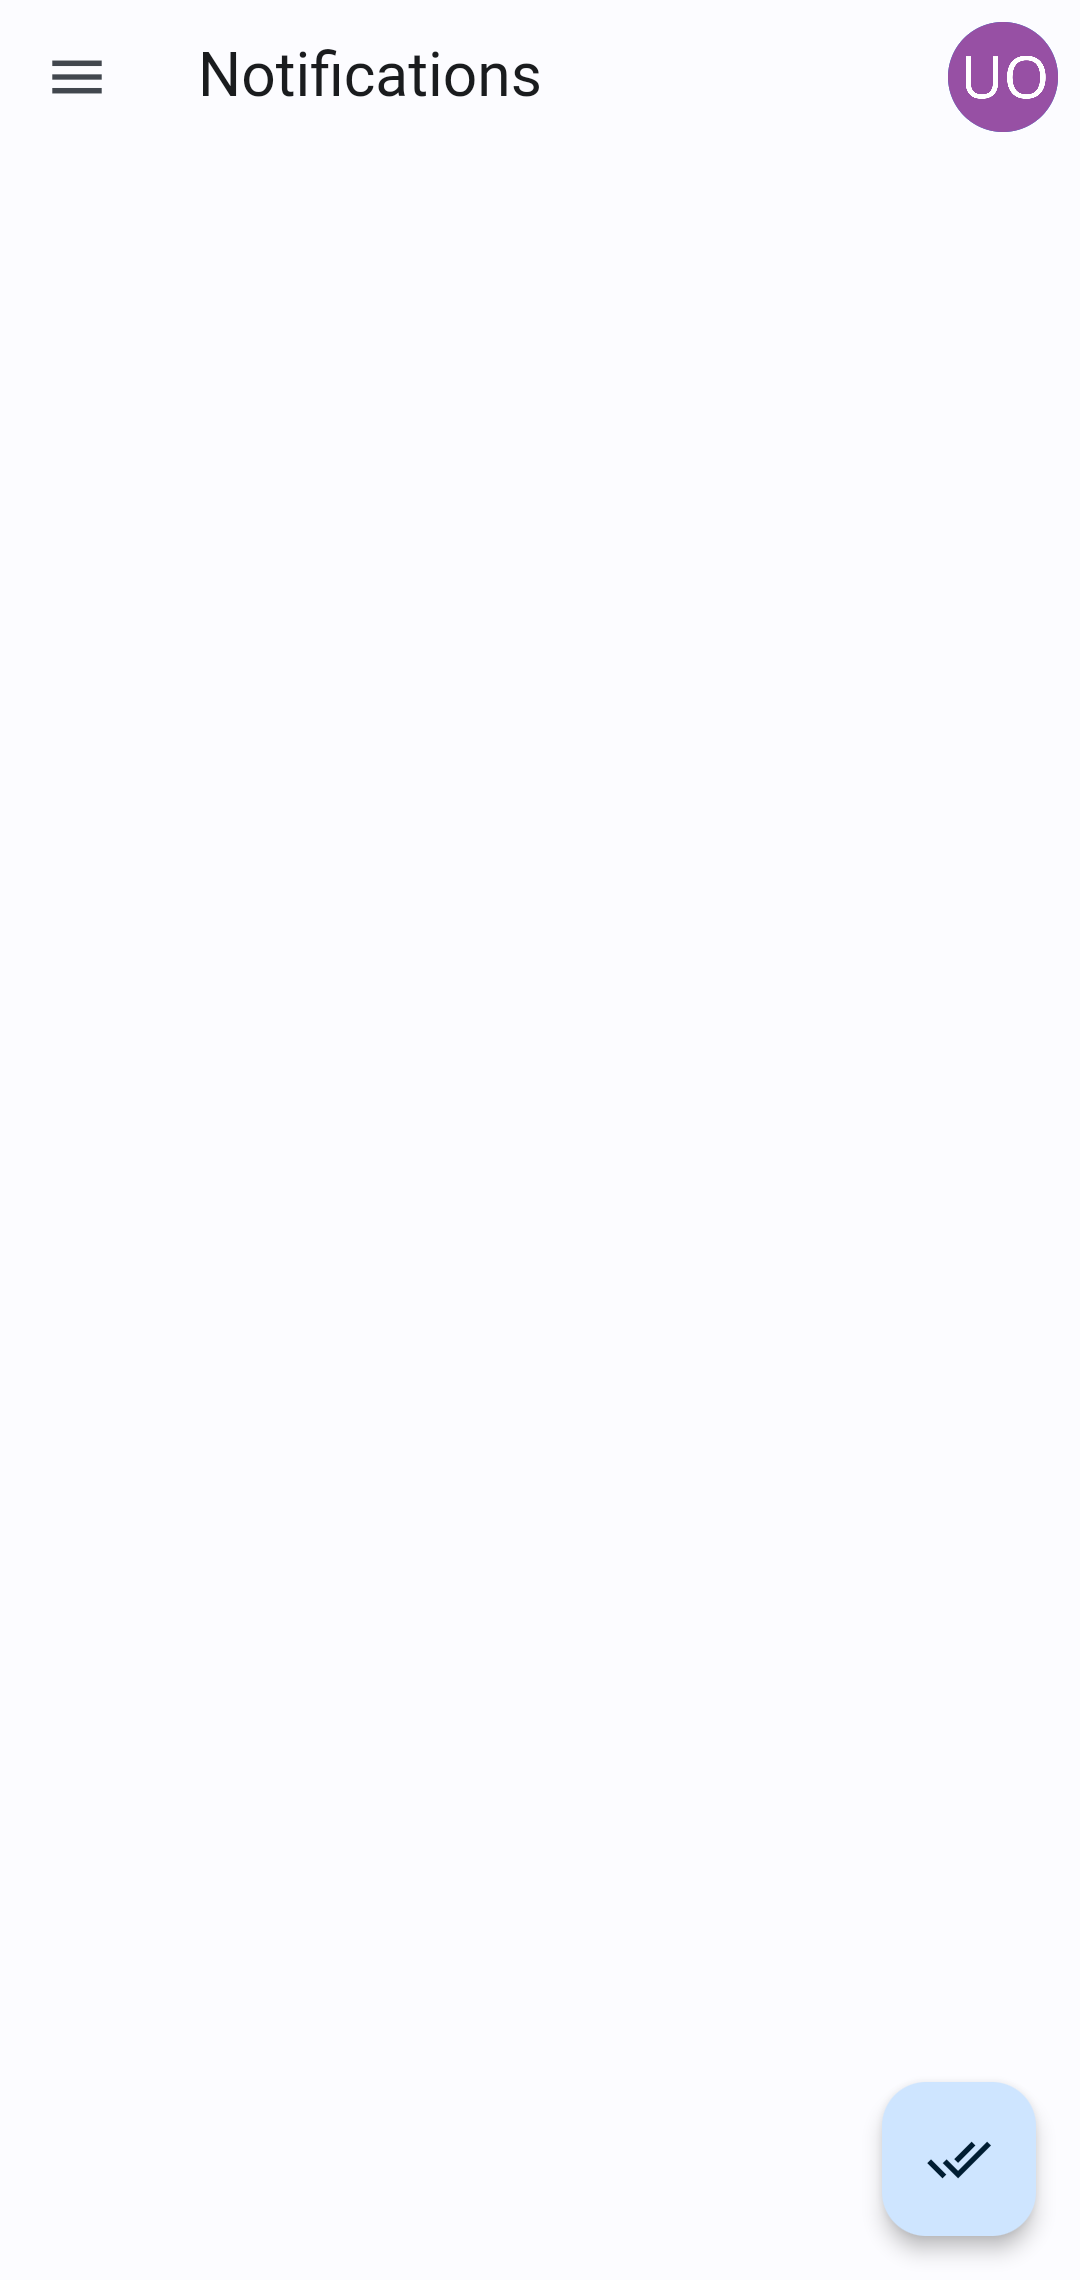
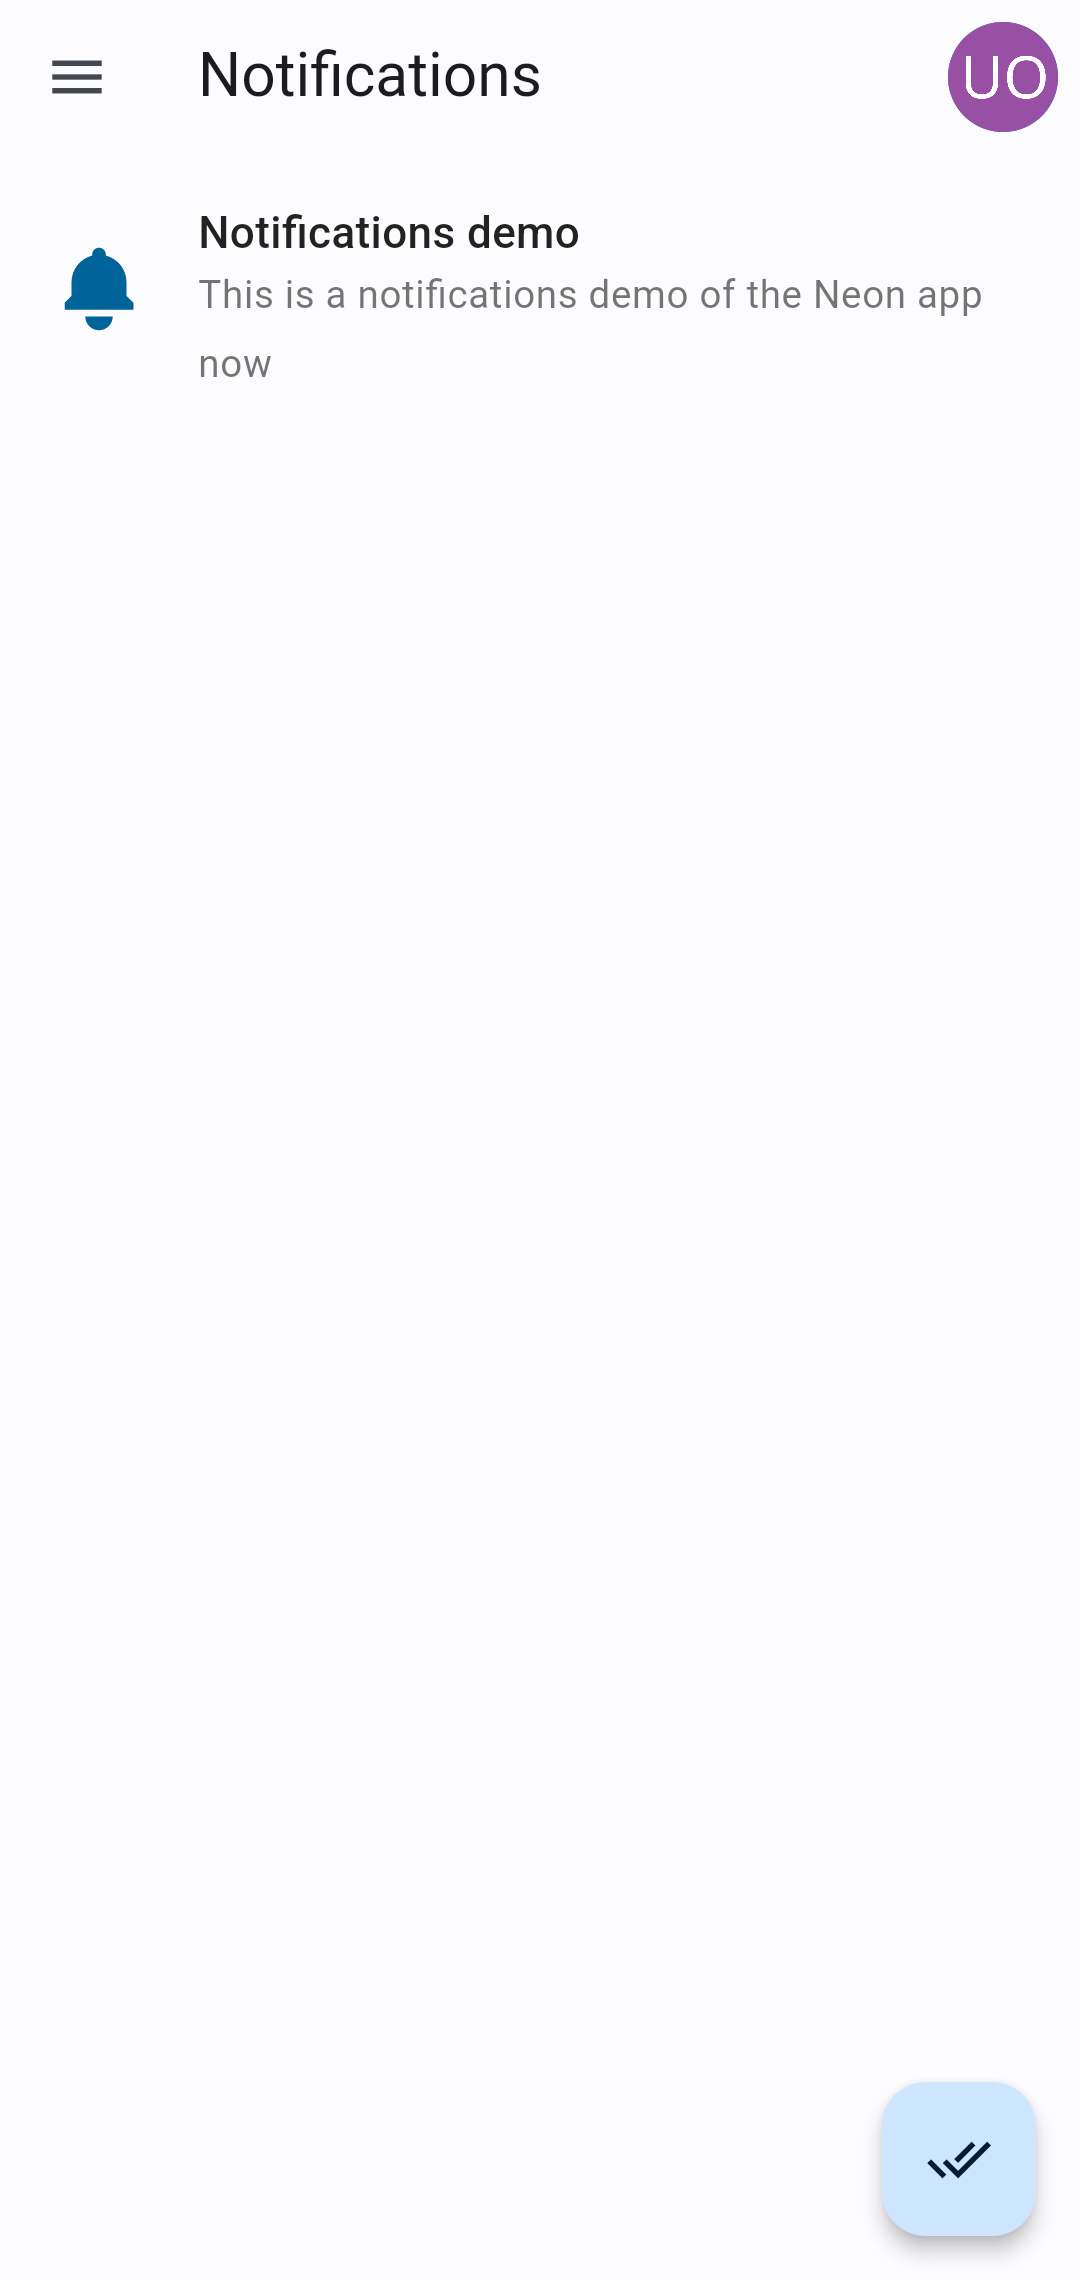
neon: Fix notifications screenshot

diff --git a/packages/neon/integration_test/screenshot_test.dart b/packages/neon/integration_test/screenshot_test.dart
@@ -96,7 +96,8 @@ class MemorySharedPreferences implements SharedPreferences {
 
 Future pumpAppPage(
   final WidgetTester tester,
-  final IntegrationTestWidgetsFlutterBinding binding, {
+  final IntegrationTestWidgetsFlutterBinding binding,
+  final PackageInfo packageInfo, {
   required final Widget Function(BuildContext, Function(NextcloudTheme)) builder,
   final Account? account,
 }) async {
@@ -105,8 +106,6 @@ Future pumpAppPage(
   final platform = await getNeonPlatform();
   final requestManager = RequestManager();
   final allAppImplementations = getAppImplementations(sharedPreferences, requestManager, platform);
-
-  final packageInfo = await PackageInfo.fromPlatform();
 
   final globalOptions = GlobalOptions(
     Storage('global', sharedPreferences),
@@ -123,7 +122,7 @@ Future pumpAppPage(
     allAppImplementations,
   );
   if (account != null) {
-    accountsBloc.addAccount(account..setupClient(packageInfo));
+    accountsBloc.addAccount(account);
   }
 
   final pushNotificationsBloc = PushNotificationsBloc(
@@ -220,14 +219,17 @@ Future main() async {
   assert(Platform.isAndroid, 'Screenshots need to be taken on Android');
 
   final binding = IntegrationTestWidgetsFlutterBinding.ensureInitialized();
-
-  final account = Account(
-    serverURL: 'http://10.0.2.2',
-    username: 'user1',
-    password: 'user1',
-  );
+  late PackageInfo packageInfo;
+  late Account account;
 
   setUpAll(() async {
+    packageInfo = await PackageInfo.fromPlatform();
+    account = Account(
+      serverURL: 'http://10.0.2.2',
+      username: 'user1',
+      password: 'user1',
+    )..setupClient(packageInfo);
+
     await SystemChrome.setEnabledSystemUIMode(SystemUiMode.manual, overlays: []);
   });
 
@@ -235,6 +237,7 @@ Future main() async {
     await pumpAppPage(
       tester,
       binding,
+      packageInfo,
       builder: (final context, final _) => const LoginPage(),
     );
     await prepareScreenshot(tester, binding);
@@ -253,6 +256,7 @@ Future main() async {
     await pumpAppPage(
       tester,
       binding,
+      packageInfo,
       account: account,
       builder: (final context, final onThemeChanged) => HomePage(
         account: account,
@@ -270,6 +274,7 @@ Future main() async {
     await pumpAppPage(
       tester,
       binding,
+      packageInfo,
       account: account,
       builder: (final context, final onThemeChanged) => HomePage(
         account: account,
@@ -322,6 +327,7 @@ Future main() async {
     await pumpAppPage(
       tester,
       binding,
+      packageInfo,
       account: account,
       builder: (final context, final onThemeChanged) => HomePage(
         account: account,
@@ -396,6 +402,7 @@ Future main() async {
     await pumpAppPage(
       tester,
       binding,
+      packageInfo,
       account: account,
       builder: (final context, final onThemeChanged) => HomePage(
         account: account,
@@ -454,15 +461,23 @@ Future main() async {
   });
 
   testWidgets('notifications', (final tester) async {
-    await account.client.notifications.sendAdminNotification(
-      userId: account.username,
-      shortMessage: 'Notifications demo',
-      longMessage: 'This is a notifications demo of the Neon app',
-    );
+    await (Account(
+      serverURL: 'http://10.0.2.2',
+      username: 'admin',
+      password: 'admin',
+    )..setupClient(packageInfo))
+        .client
+        .notifications
+        .sendAdminNotification(
+          userId: account.username,
+          shortMessage: 'Notifications demo',
+          longMessage: 'This is a notifications demo of the Neon app',
+        );
 
     await pumpAppPage(
       tester,
       binding,
+      packageInfo,
       account: account,
       builder: (final context, final onThemeChanged) => HomePage(
         account: account,
@@ -482,6 +497,7 @@ Future main() async {
     await pumpAppPage(
       tester,
       binding,
+      packageInfo,
       account: account,
       builder: (final context, final onThemeChanged) => HomePage(
         account: account,
